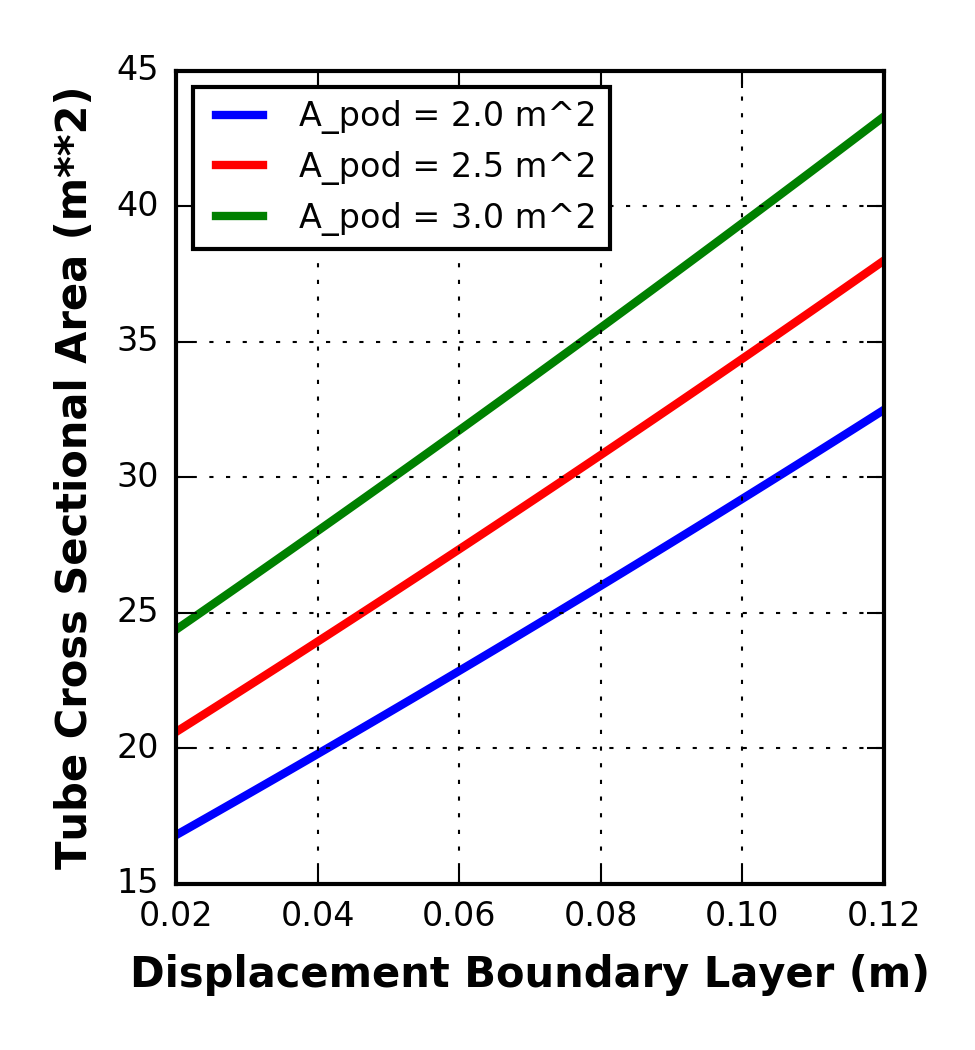
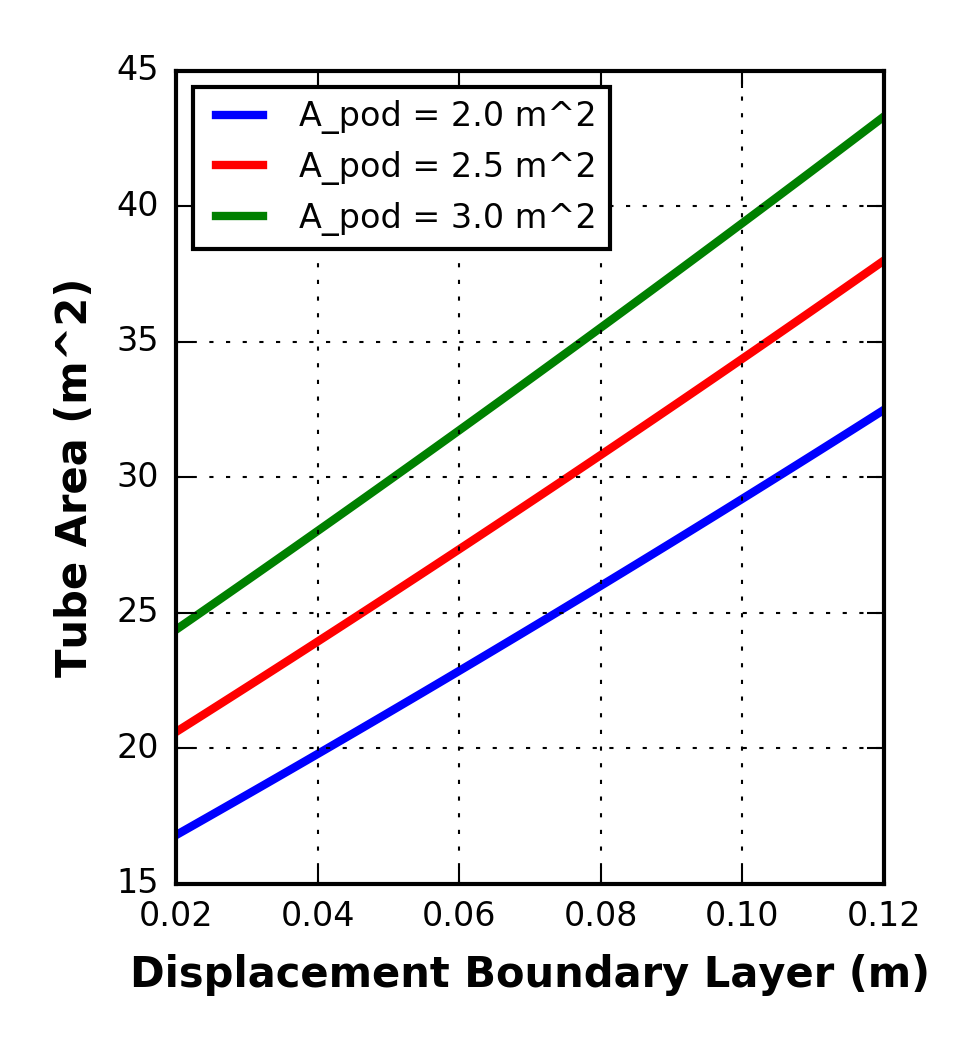
fixing up plots, (axes range, label, grid) moving images side-by-side for easier comparison

Changed region(s): [[0.0308, 0.061, 0.0923, 0.8229]]

diff --git a/paper/sections/subsystem_analyses_and_optimizations/boundary_layer_sensitivity.tex b/paper/sections/subsystem_analyses_and_optimizations/boundary_layer_sensitivity.tex
@@ -53,12 +53,32 @@ order of magnitude of accuracy.  The pod configurations tested in each analysis 
 % 	% \begin{tabular}
 % 	% \end{tabular}
 % \end{table}
+% \begin{figure}
+% 	\centering
+% 	\includegraphics{../../images/graphs/boundary_layer_growth_trades/Tube_Area_vs_boundary_layer.png}
+% 	\caption{Tube Cross Sectional Area vs. Displacement Boundary Layer Thickness and Pod Cross Sectional Area}
+% 	\label{fig:cross_sec_area_vs_disp_boundary_layer}
+% \end{figure}
+
 \begin{figure}
-	\centering
-	\includegraphics{../../images/graphs/boundary_layer_growth_trades/Tube_Area_vs_boundary_layer.png}
-	\caption{Tube Cross Sectional Area vs. Displacement Boundary Layer Thickness and Pod Cross Sectional Area}
-	\label{fig:cross_sec_area_vs_disp_boundary_layer}
+\centering
+\begin{subfigure}{.5\textwidth}
+  \centering
+  \includegraphics{../../images/graphs/boundary_layer_growth_trades/Tube_Area_vs_boundary_layer.png}
+  \caption{Versus Displacement Boundary Layer Thickness and Pod Cross Sectional Area}
+  \label{fig:cross_sec_area_vs_disp_boundary_layer}
+\end{subfigure}%
+\begin{subfigure}{.5\textwidth}
+  \centering
+  \includegraphics{../../images/graphs/boundary_layer_length_trades/Tube_Area_vs_pod_length.png}
+  \caption{Versus Pod Length}
+  \label{fig:tube_area_vs_length}
+\end{subfigure}
+\caption{Tube Cross Sectional Area Sensitivity}
+\label{fig:topTubeArea}
 \end{figure}
+
+
 \Cref{fig:cross_sec_area_vs_disp_boundary_layer} indicates the effects that
 displacement boundary layer has on the cross sectional area of the tube.
 It is shown that the cross sectional area of the tube increases rapidly as the
@@ -72,12 +92,12 @@ This relationship exists because more bypass area is lost as pod radius
 increases for a given displacement boundary layer thickness. This means that
 the coupling between tube and pod cross sectional areas is even stronger than
 was indicated in previous research.
-\begin{figure}
-	\centering
-	\includegraphics{../../images/graphs/boundary_layer_length_trades/Tube_Area_vs_pod_length.png}
-	\caption{Tube Cross Sectional Area vs. Pod Length}
-	\label{fig:tube_area_vs_length}
-\end{figure}
+% \begin{figure}
+% 	\centering
+% 	\includegraphics{../../images/graphs/boundary_layer_length_trades/Tube_Area_vs_pod_length.png}
+% 	\caption{Tube Cross Sectional Area vs. Pod Length}
+% 	\label{fig:tube_area_vs_length}
+% \end{figure}
 \Cref{fig:tube_area_vs_length} shows the necessary cross sectional area of the
 tube as a function of pod length using the previously described relationship
 approximation. Increases in pod length due to higher passenger

diff --git a/paper/images/trade_scripts/boundary_layer_growth_writer.py b/paper/images/trade_scripts/boundary_layer_growth_writer.py
@@ -6,39 +6,39 @@ from hyperloop.Python import boundary_layer_sensitivity
 
 if __name__ == '__main__':
 
-	top = Problem()
-	root = top.root = Group()
+    top = Problem()
+    root = top.root = Group()
 
-	params = (
-		('delta_star', .02, {'units' : 'm'}),
-		('A_pod', 2.0, {'units' : 'm**2'}),
-		('L_pod', 22.0, {'units' : 'm'}),
-		('length_calc', False))
+    params = (
+        ('delta_star', .02, {'units' : 'm'}),
+        ('A_pod', 2.0, {'units' : 'm**2'}),
+        ('L_pod', 22.0, {'units' : 'm'}),
+        ('length_calc', False))
 
-	root.add('input_vars', IndepVarComp(params), promotes = ['delta_star', 'A_pod', 'L_pod', 'length_calc'])
-	root.add('p', boundary_layer_sensitivity.BoundaryLayerSensitivity())
+    root.add('input_vars', IndepVarComp(params), promotes = ['delta_star', 'A_pod', 'L_pod', 'length_calc'])
+    root.add('p', boundary_layer_sensitivity.BoundaryLayerSensitivity())
 
-	root.connect('delta_star', 'p.delta_star')
-	root.connect('A_pod', 'p.A_pod')
-	root.connect('L_pod', 'p.L')
-	root.connect('length_calc', 'p.length_calc')
+    root.connect('delta_star', 'p.delta_star')
+    root.connect('A_pod', 'p.A_pod')
+    root.connect('L_pod', 'p.L')
+    root.connect('length_calc', 'p.length_calc')
 
-	top.setup()
+    top.setup()
 
-	delta_star = np.linspace(.02, .12, num = 50)
-	A_pod = np.linspace(2, 3, num = 3)
+    delta_star = np.linspace(.02, .12, num = 50)
+    A_pod = np.linspace(2, 3, num = 3)
 
-	A_tube = np.zeros((len(A_pod), len(delta_star)))
-	
-	for i in range(len(delta_star)):
-		for j in range(len(A_pod)):
-			top['delta_star'] = delta_star[i]
-			top['A_pod'] = A_pod[j]
+    A_tube = np.zeros((len(A_pod), len(delta_star)))
 
-			top.run()
+    for i in range(len(delta_star)):
+        for j in range(len(A_pod)):
+            top['delta_star'] = delta_star[i]
+            top['A_pod'] = A_pod[j]
 
-			A_tube[j,i] = top['p.A_tube']
+            top.run()
 
-	np.savetxt('../../../paper/images/data_files/boundary_layer_growth_trades/delta_star.txt', delta_star, fmt = '%f', delimiter = '\t', newline = '\r\n')
-	np.savetxt('../../../paper/images/data_files/boundary_layer_growth_trades/A_tube.txt', A_tube, fmt = '%f', delimiter = '\t', newline = '\r\n')
+            A_tube[j,i] = top['p.A_tube']
+
+    np.savetxt('../../../paper/images/data_files/boundary_layer_growth_trades/delta_star.txt', delta_star, fmt = '%f', delimiter = '\t', newline = '\r\n')
+    np.savetxt('../../../paper/images/data_files/boundary_layer_growth_trades/A_tube.txt', A_tube, fmt = '%f', delimiter = '\t', newline = '\r\n')
 

diff --git a/paper/images/trade_scripts/boundary_layer_growth_plot.py b/paper/images/trade_scripts/boundary_layer_growth_plot.py
@@ -13,7 +13,7 @@ line1, = plt.plot(delta_star, A_tube[0,:], 'b-', linewidth = 2.0, label = 'A_pod
 line2, = plt.plot(delta_star, A_tube[1,:], 'r-', linewidth = 2.0, label = 'A_pod = 2.5 m^2')
 line3, = plt.plot(delta_star, A_tube[2,:], 'g-', linewidth = 2.0, label = 'A_pod = 3.0 m^2')
 plt.xlabel('Displacement Boundary Layer (m)', fontsize = 10, fontweight = 'bold')
-plt.ylabel('Tube Cross Sectional Area (m**2)', fontsize = 10, fontweight = 'bold')
+plt.ylabel('Tube Area (m^2)', fontsize = 10, fontweight = 'bold')
 plt.grid('on')
 plt.xlim(.02, .12)
 plt.legend(handles = [line1, line2, line3], loc = 2, fontsize = 8)

diff --git a/paper/images/trade_scripts/boundary_layer_length_plot.py b/paper/images/trade_scripts/boundary_layer_length_plot.py
@@ -12,5 +12,7 @@ plt.setp(ax.get_yticklabels(), fontsize=8)
 plt.plot(L_pod, A_tube, linewidth = 2.0)
 plt.xlabel('Pod Length (m)', fontsize = 10, fontweight = 'bold')
 plt.ylabel('Tube Area (m^2)', fontsize = 10, fontweight = 'bold')
+plt.ylim([15,45])
+plt.grid('on')
 plt.savefig('../graphs/boundary_layer_length_trades/Tube_Area_vs_pod_length.png', format = 'png', dpi = 300)
 plt.show()
